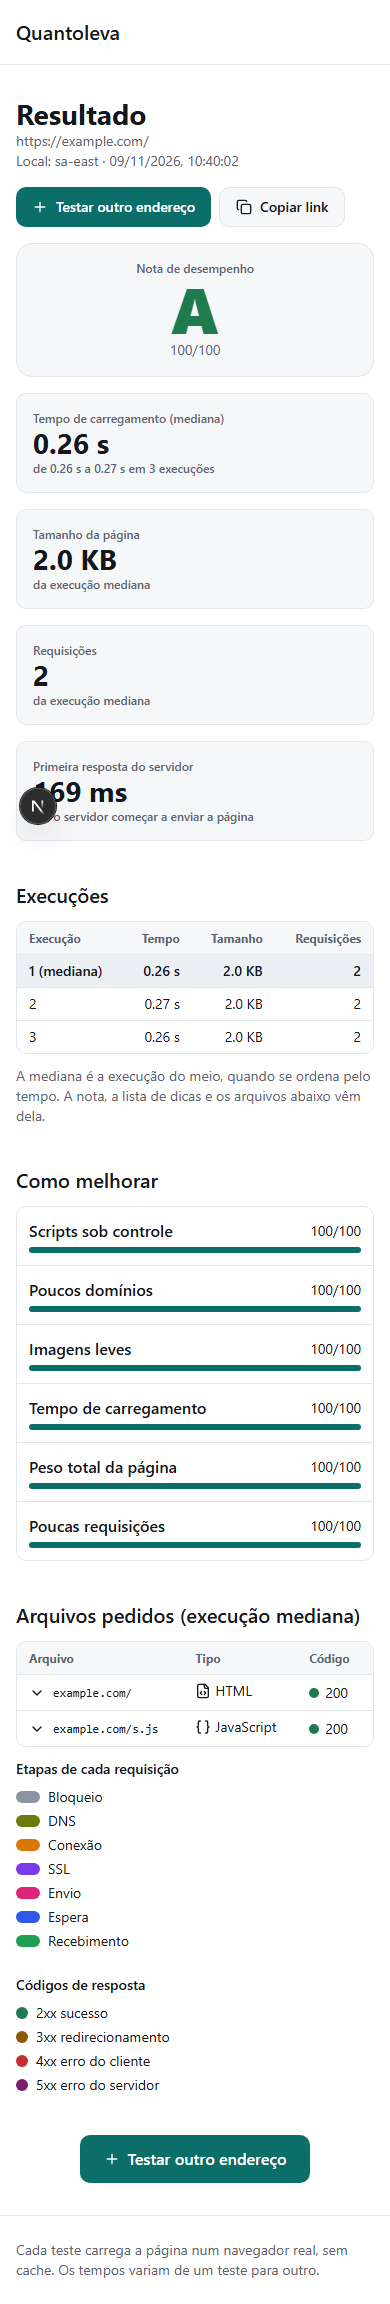
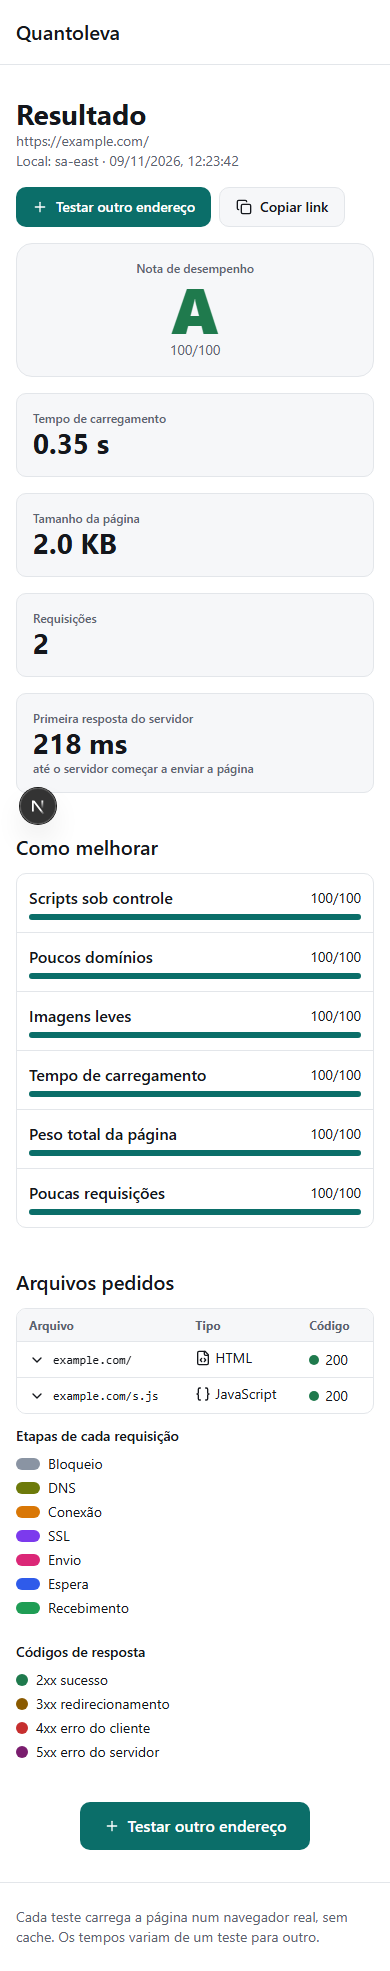
One run per test instead of three

diff --git a/src/components/BatchView.tsx b/src/components/BatchView.tsx
@@ -70,8 +70,7 @@ export function BatchView({ ids }: { ids: string[] }) {
             <tr>
               <th scope="col" className="px-3 py-2">Endereço</th>
               <th scope="col" className="px-3 py-2">Estado</th>
-              <th scope="col" className="px-3 py-2 text-right">Tempo (mediana)</th>
-              <th scope="col" className="px-3 py-2 text-right">Faixa</th>
+              <th scope="col" className="px-3 py-2 text-right">Tempo</th>
               <th scope="col" className="px-3 py-2 text-center">Nota</th>
               <th scope="col" className="px-3 py-2 text-right">Tamanho</th>
               <th scope="col" className="px-3 py-2 text-right">Requisições</th>
@@ -81,8 +80,6 @@ export function BatchView({ ids }: { ids: string[] }) {
           <tbody>
             {ids.map((id, i) => {
               const t = list[i];
-              const min = t?.runs.length ? Math.min(...t.runs.map((r) => r.loadMs)) : null;
-              const max = t?.runs.length ? Math.max(...t.runs.map((r) => r.loadMs)) : null;
               return (
                 <tr key={id} className="border-t border-border">
                   <td className="max-w-[260px] px-3 py-2">
@@ -93,7 +90,7 @@ export function BatchView({ ids }: { ids: string[] }) {
                     {t === null && <span className="inline-flex items-center gap-1"><TriangleAlert className="h-4 w-4 text-danger" aria-hidden />Não encontrado</span>}
                     {t && t.status === "queued" && <span>Na fila</span>}
                     {t && t.status === "running" && (
-                      <span className="inline-flex items-center gap-1"><Loader2 className="h-4 w-4 animate-spin" aria-hidden />Execução {Math.min(t.runsDone + 1, t.runsPlanned)} de {t.runsPlanned}</span>
+                      <span className="inline-flex items-center gap-1"><Loader2 className="h-4 w-4 animate-spin" aria-hidden />Medindo</span>
                     )}
                     {t && t.status === "done" && <span className="inline-flex items-center gap-1"><CheckCircle2 className="h-4 w-4 text-success" aria-hidden />Pronto</span>}
                     {t && t.status === "failed" && (
@@ -101,9 +98,6 @@ export function BatchView({ ids }: { ids: string[] }) {
                     )}
                   </td>
                   <td className="px-3 py-2 text-right tabular-nums">{t?.status === "done" ? seconds(t.loadMs ?? 0) : "-"}</td>
-                  <td className="px-3 py-2 text-right tabular-nums">
-                    {t?.status === "done" && min !== null && max !== null && t.runs.length > 1 ? `${seconds(min)} a ${seconds(max)}` : "-"}
-                  </td>
                   <td className={`px-3 py-2 text-center text-lg font-bold ${t?.grade ? GRADE_CLASS[t.grade] : ""}`}>
                     {t?.status === "done" ? <span aria-label={`Nota ${t.grade}, ${t.score} de 100`}>{t.grade}</span> : "-"}
                   </td>
@@ -119,7 +113,7 @@ export function BatchView({ ids }: { ids: string[] }) {
         </table>
       </div>
       <p className="text-sm text-muted">
-        Cada endereço roda 3 vezes; a tabela mostra a execução mediana e a faixa. Sites que bloqueiam acesso de fora do país ou de programas automáticos podem falhar.
+        Cada endereço é medido uma vez, sem cache; rode de novo se o número parecer estranho. Sites que bloqueiam acesso de fora do país ou de programas automáticos podem falhar.
       </p>
     </div>
   );

diff --git a/src/app/page.tsx b/src/app/page.tsx
@@ -14,7 +14,7 @@ const STEPS = [
 
 const FEATURES = [
   { title: "Vários endereços ao mesmo tempo", text: `Teste até ${MAX_URLS_PER_SUBMIT} sites de uma vez e compare tempo, nota e peso numa tabela só.` },
-  { title: "Três execuções, mediana e faixa", text: "Cada teste carrega a página 3 vezes. Você vê o tempo mediano e de quanto a 1ª à última variou." },
+  { title: "Resultado rápido", text: "Cada teste carrega a página uma vez, sem cache, e entrega o resultado assim que termina." },
   { title: "Navegador de verdade, sem cache", text: "Cada teste abre a página como um visitante novo." },
   { title: "Cada arquivo, etapa por etapa", text: "Bloqueio, DNS, conexão, SSL, envio, espera e recebimento." },
   { title: "Uma nota que explica", text: "Seis regras, cada uma com pontuação e uma dica quando está abaixo de 90." },
@@ -30,7 +30,7 @@ const SOON = [
 const FAQ = [
   {
     q: "Os tempos são iguais aos do meu navegador?",
-    a: "Não. O teste roda num navegador de servidor, sem cache, e os tempos mudam a cada carregamento. Por isso cada teste carrega a página 3 vezes e mostra a mediana e a faixa. Rode de novo se a faixa vier larga.",
+    a: "Não. O teste roda num navegador de servidor, sem cache, e os tempos mudam a cada carregamento. Cada teste carrega a página uma vez. Rode de novo para confirmar se o número parecer estranho.",
   },
   {
     q: "Por que só um local de teste?",
@@ -61,7 +61,7 @@ export default async function Home() {
         <p>Ferramentas de velocidade costumam testar de um só lugar, e o resultado muda com a distância até o servidor.</p>
         <p>
           O mesmo site também dá tempos diferentes em testes seguidos, e a nota nem sempre diz o que consertar.
-          Por isso cada teste carrega a página 3 vezes e mostra a mediana e a faixa, o local de onde veio o resultado e o que pesa em cada arquivo.
+          Por isso mostramos o local de onde veio o resultado e o que pesa em cada arquivo, e você pode testar de novo para confirmar.
         </p>
       </section>
 

diff --git a/e2e/run-test.spec.ts b/e2e/run-test.spec.ts
@@ -26,23 +26,14 @@ test.describe("F01 run a test, F02 inspect a file, F04 share", () => {
     await page.screenshot({ path: `replica/clone-screens/S03-${info.project.name}.png`, fullPage: true });
   });
 
-  test("F01-R1 three runs: median tile, range, and a runs table with the median marked", async ({ page }) => {
+  test("F01-R1 one run: plain load time, no median, range or runs table", async ({ page }) => {
     await runTest(page, "example.com");
     await expect(page.getByRole("heading", { name: "Resultado" })).toBeVisible();
-    await expect(page.getByText("Tempo de carregamento (mediana)")).toBeVisible();
-    await expect(page.getByText(/de \d+\.\d\d s a \d+\.\d\d s em 3 execuções/)).toBeVisible();
-    const rows = page.getByRole("table", { name: /execuções deste teste/ }).locator("tbody tr");
-    await expect(rows).toHaveCount(3);
-    await expect(page.getByRole("cell", { name: /\(mediana\)/ })).toHaveCount(1);
-    await expect(page.getByRole("heading", { name: "Arquivos pedidos (execução mediana)" })).toBeVisible();
-  });
-
-  test("F01-R2 the median row's time equals the headline time", async ({ page }) => {
-    await runTest(page, "example.com");
-    await expect(page.getByRole("heading", { name: "Resultado" })).toBeVisible();
-    const headline = await page.getByText("Tempo de carregamento (mediana)").locator("xpath=following-sibling::p[1]").innerText();
-    const medianRow = page.getByRole("row").filter({ hasText: "(mediana)" });
-    await expect(medianRow).toContainText(headline);
+    await expect(page.locator("p.text-xs", { hasText: /^Tempo de carregamento$/ })).toBeVisible();
+    await expect(page.getByText(/mediana/i)).toHaveCount(0);
+    await expect(page.getByText(/em \d+ execuções/)).toHaveCount(0);
+    await expect(page.getByRole("table", { name: /execuções deste teste/ })).toHaveCount(0);
+    await expect(page.getByRole("heading", { name: "Arquivos pedidos", exact: true })).toBeVisible();
   });
 
   test("F01-A2 no accessibility violations on result", async ({ page }) => {

diff --git a/src/components/ResultView.tsx b/src/components/ResultView.tsx
@@ -26,6 +26,7 @@ const ERRORS: Record<string, string> = {
 
 function stepText(test: TestRow | null) {
   if (!test || test.status === "queued") return "Aguardando um espaço para o teste…";
+  if (test.runsPlanned === 1) return "Abrindo a página e medindo cada arquivo…";
   const n = Math.min(test.runsDone + 1, test.runsPlanned);
   return `Execução ${n} de ${test.runsPlanned}: abrindo a página e medindo cada arquivo…`;
 }
@@ -82,7 +83,7 @@ export function ResultView({ id }: { id: string }) {
         <p>{stepText(test)}</p>
         {slow && (
           <p className="text-sm text-muted">
-            Cada teste carrega a página 3 vezes, e páginas pesadas ou lentas levam mais de 1 minuto. Pode deixar esta tela aberta: o teste continua até terminar (limite de 10 minutos no total).
+            Páginas pesadas ou lentas levam mais de 1 minuto. Pode deixar esta tela aberta: o teste continua até terminar (limite de 10 minutos no total).
           </p>
         )}
       </div>

diff --git a/worker/index.ts b/worker/index.ts
@@ -1,9 +1,10 @@
 import { Pool } from "pg";
 import { evaluateRules, gradeFromRules } from "../src/lib/grading";
 import { medianIndex } from "../src/lib/median";
+import { RUNS_PLANNED } from "../src/lib/types";
 import { MeasureError, NAV_TIMEOUT_MS, measure, type Measured } from "./measure";
 
-const RUNS = 3;
+const RUNS = RUNS_PLANNED;
 const TOTAL_BUDGET_MS = 10 * 60_000; // all runs of one test together
 const MIN_REMAINING_MS = 30_000; // do not start another run with less than this left
 

diff --git a/e2e/landing.spec.ts b/e2e/landing.spec.ts
@@ -32,7 +32,7 @@ test.describe("landing sections on /", () => {
     const first = page.getByText("Os tempos são iguais aos do meu navegador?");
     await first.focus();
     await page.keyboard.press("Enter");
-    await expect(page.getByText(/Rode de novo se a faixa vier larga/)).toBeVisible();
+    await expect(page.getByText(/Rode de novo para confirmar/)).toBeVisible();
   });
 
   test("L5 final button scrolls to the form", async ({ page }) => {

diff --git a/src/lib/types.ts b/src/lib/types.ts
@@ -1,6 +1,6 @@
 import type { RunSummary } from "./median";
 
-export const RUNS_PLANNED = 3;
+export const RUNS_PLANNED = 1;
 
 export type TestStatus = "queued" | "running" | "done" | "failed";
 export type ErrorCode = "invalid_url" | "blocked_target" | "unreachable" | "timeout" | "internal";

diff --git a/replica/build-log.md b/replica/build-log.md
@@ -23,3 +23,5 @@ Worker runs 3 cold runs, saves each in test_runs, median run feeds grade and wat
 
 ## 2026-11-09 several addresses at once
 Form takes up to 5 addresses; /comparar shows them in one table with live progress; worker runs 3 tests at a time; "Testar outro endereco" button on results and on the comparison page; first-response tile. 90/90 e2e. Real check: 5 government sites in 17 s, 3 overlapped.
+
+- 2026-11-09: runs per test reduced from 3 to 1 (user request). Median/range code kept generic (RUNS_PLANNED in src/lib/types.ts); UI hides runs table, range and "mediana" when there is one run.
